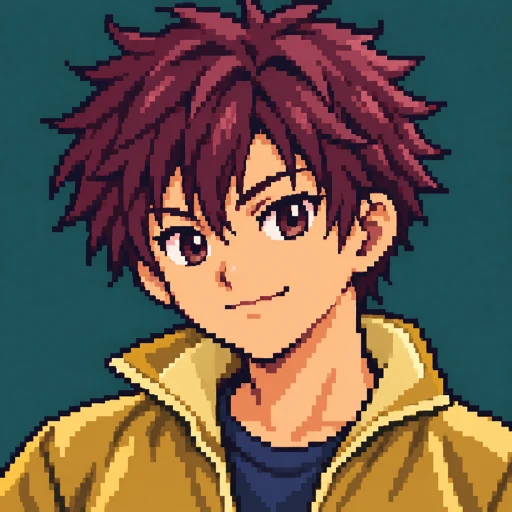
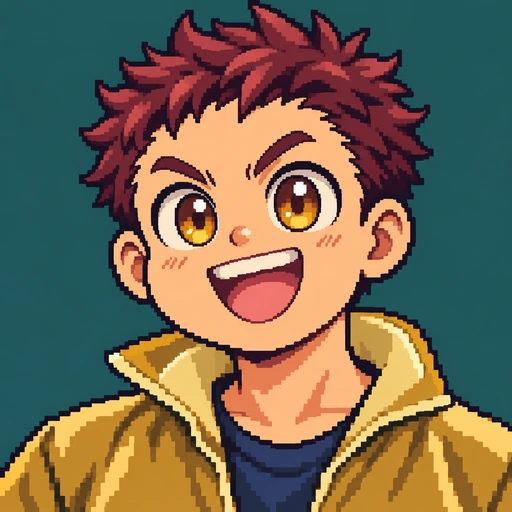
Give each legend distinct eyes, face shape, hair and expression

diff --git a/src/game/LegendPeopleArt.ts b/src/game/LegendPeopleArt.ts
@@ -1,0 +1,60 @@
+import {personDrawing,type Facing} from './PeopleArt';
+import {pixelPen,type PixelShape} from './pixelDrawing';
+export type LegendPerson='rei'|'gaku'|'towa'|'koya';
+const palettes={
+ rei:{shirt:'#42679f',light:'#9bbfe9',shade:'#29456f',hair:'#53243e',highlight:'#96536b'},
+ gaku:{shirt:'#c49b3d',light:'#f3d98a',shade:'#8b6529',hair:'#6e3029',highlight:'#b25e4e'},
+ towa:{shirt:'#34313f',light:'#a68487',shade:'#1d1d2b',hair:'#24202f',highlight:'#575066'},
+ koya:{shirt:'#75828e',light:'#dce4e9',shade:'#424e5b',hair:'#252c34',highlight:'#687380'},
+};
+/** レジェンドは共通の服の原画に、各人専用の頭部・輪郭・目元を組み合わせる。 */
+export function legendPersonDrawing(id:LegendPerson,direction:Facing,frame=0):PixelShape[]{
+ const facing=direction==='left'?'right':direction,c=palettes[id],bob=frame===1||frame===3?1:0;
+ const colors:Record<string,string>={'#b14b67':c.shirt,'#ec9aa2':c.light,'#7f3757':c.shade};
+ const body=personDrawing('rival',facing,frame).filter(shape=>(shape.kind==='rect'?shape.y:Math.min(...shape.points.map(([,y])=>y)))>=35).map(shape=>({...shape,color:colors[shape.color]??shape.color}));
+ const pen=pixelPen(),ink='#222737',skin='#f3c5a0',shadow='#c89078',light='#ffe2ba';
+ const p=(points:number[][],color:string)=>pen.polygon(points.map(([x,y])=>[x,y+bob] as const),color);
+ const r=(x:number,y:number,w:number,h:number,color:string)=>pen.rect(x,y+bob,w,h,color);
+ r(26,33,9,7,shadow);r(28,34,5,4,skin);
+ if(facing==='up'){
+  const bottom=id==='towa'?48:36;
+  p([[19,7],[25,3],[36,3],[43,8],[46,17],[44,bottom-4],[38,bottom],[21,bottom],[15,bottom-5],[14,16]],ink);
+  p([[20,8],[27,5],[35,5],[41,9],[43,17],[41,bottom-4],[36,bottom-2],[23,bottom-2],[18,bottom-6],[17,17]],c.hair);
+  r(21,10,16,2,c.highlight);if(id==='koya')r(18,8,23,7,c.hair);if(id==='gaku')for(let i=0;i<4;i++)p([[17+i*7,11],[19+i*7,3],[24+i*7,10]],c.hair);
+ }else if(facing==='right'){
+  p([[23,11],[36,10],[43,16],[44,23],[49,26],[48,29],[42,30],[41,35],[35,39],[24,35],[20,25]],ink);
+  p([[25,13],[35,12],[41,17],[42,24],[47,26],[46,28],[40,29],[39,34],[34,36],[26,33],[23,25]],skin);r(29,15,9,2,light);
+  p(id==='koya'?[[20,10],[23,6],[37,6],[43,11],[43,17],[39,16],[38,13],[25,13],[25,26],[21,27]]:id==='gaku'?[[18,12],[20,4],[27,8],[30,2],[34,8],[39,5],[44,12],[43,17],[35,14],[29,15],[25,22],[21,24]]:id==='towa'?[[19,9],[28,3],[38,5],[45,12],[43,21],[39,16],[35,15],[30,23],[28,43],[21,47],[17,34]]:[[19,10],[27,4],[37,5],[44,12],[41,19],[36,15],[32,20],[27,27],[22,30],[17,24]],c.hair);
+  r(22,10,12,2,c.highlight);
+  const eyeHeight=id==='gaku'?6:2;r(36,22,5,eyeHeight,'#fff2dd');r(38,22,2,eyeHeight,id==='gaku'?'#8c511e':id==='towa'?'#713044':id==='rei'?'#45617a':'#3d614a');
+  if(id==='towa')p([[35,21],[42,18],[42,20],[35,23]],ink);else r(35,19,7,id==='gaku'?2:1,ink);
+  r(39,32,id==='gaku'?6:4,id==='gaku'?3:1,'#825057');if(id==='gaku')r(40,32,4,1,'#fff5dc');
+  if(id==='koya'){r(34,21,9,1,ink);r(34,21,1,8,ink);r(42,21,1,8,ink);r(34,28,9,1,ink);r(25,23,9,1,ink);}
+ }else{
+  const outline=id==='gaku'?[[19,9],[30,7],[41,10],[46,20],[45,31],[39,38],[23,38],[15,31],[13,21]]:id==='koya'?[[18,10],[40,10],[46,18],[45,33],[39,39],[22,39],[15,33],[14,20]]:id==='towa'?[[20,9],[31,6],[41,11],[45,21],[41,30],[31,40],[20,32],[16,21]]:[[21,9],[31,7],[40,12],[43,21],[40,31],[32,39],[23,33],[18,23]];
+  p(outline,ink);p(outline.map(([x,y])=>[30+(x-30)*.86,22+(y-22)*.9]),shadow);p(outline.map(([x,y])=>[30+(x-30)*.76,21+(y-22)*.8]),skin);r(23,15,13,2,light);
+  if(id==='towa'){
+   p([[16,21],[17,10],[24,4],[31,3],[40,7],[46,16],[45,38],[40,47],[37,45],[40,28],[38,17],[33,12],[30,15],[27,12],[22,18],[21,30],[24,43],[18,47],[14,34]],c.hair);
+   r(20,13,2,14,c.highlight);r(40,17,2,18,c.highlight);
+  }else if(id==='rei'){
+   p([[16,24],[15,14],[20,7],[29,3],[39,5],[45,13],[43,21],[38,15],[34,11],[31,17],[26,23],[22,26],[21,18],[18,29]],c.hair);
+   p([[18,16],[23,8],[31,6],[36,8],[28,12],[24,20]],c.highlight);
+  }else if(id==='gaku'){
+   p([[15,20],[14,12],[20,13],[18,5],[25,9],[28,2],[32,9],[38,4],[40,11],[46,10],[45,21],[41,17],[35,15],[30,17],[24,14],[19,18]],c.hair);r(23,9,12,2,c.highlight);
+  }else{
+   p([[15,22],[15,12],[19,7],[40,7],[45,12],[45,23],[41,22],[40,15],[20,15],[19,23]],c.hair);r(20,9,19,3,c.highlight);
+  }
+  for(const x of [21,34]){
+   if(id==='gaku'){r(x-1,23,7,7,'#fff4dc');r(x+1,23,4,6,'#a36524');r(x+2,24,2,5,ink);r(x+1,23,1,2,'#fffdf0');r(x-1,20,7,2,ink);}
+   else if(id==='towa'){p([[x-1,25],[x+6,22],[x+5,25],[x+1,27]],'#f6ead5');r(x+2,24,2,2,'#79283f');p([[x-1,21],[x+6,19],[x+6,20],[x-1,23]],ink);}
+   else{r(x,24,5,2,'#fff2df');r(x+2,24,2,2,id==='rei'?'#48687f':'#405f49');r(x,21,6,1,ink);}
+  }
+  if(id==='gaku'){r(25,32,12,4,'#7d3b47');r(26,32,10,1,'#fff3da');r(28,35,5,1,'#e5998b');}
+  else{r(id==='koya'?25:28,34,id==='koya'?12:6,1,'#8b535c');r(29,29,id==='koya'?4:2,2,'#c48d76');}
+  if(id==='koya'){
+   for(const x of [19,33]){r(x,22,10,1,ink);r(x,22,1,8,ink);r(x+9,22,1,8,ink);r(x,29,10,1,ink);}r(29,25,4,1,ink);
+  }
+ }
+ const drawing=[...body,...pen.shapes];
+ return direction==='left'?drawing.map(shape=>shape.kind==='rect'?{...shape,x:60-shape.x-shape.w}:{...shape,points:shape.points.map(([x,y])=>[60-x,y] as const)}):drawing;
+}

diff --git a/src/game/ShopScene.ts b/src/game/ShopScene.ts
@@ -1,7 +1,7 @@
+import {legendPersonDrawing} from './LegendPeopleArt';
 import {timeBoardPlacement,timeBoardObstacle} from '../data/timeBoard';
 import {formatRecordTime,type TimeHistory} from './timeRecords';
 import {shopTrackLayout} from './shopTrackLayout';
-import {seniorDrawing,koyaDrawing} from './PeopleArt';
 import {drawShopTrack} from './ShopTrackArt';
 import { officialVenue, officialFixturesFor, officialVenueFor, officialVenuePeople, officialPeopleFor } from '../data/officialVenue';
 import { drawOfficialVenue } from './OfficialVenueArt';
@@ -98,7 +98,7 @@ export class ShopScene extends Phaser.Scene {
         if(npc.id==='go'||npc.id==='riku'||npc.id==='jin'||npc.id==='koya'){
           const key=`venue-${npc.id}-down`;
           if(!this.textures.exists(key)){
-            createPersonTexture(this,key,npc.id==='koya'?koyaDrawing('down'):npc.id==='jin'?seniorDrawing('down'):npc.id==='go'?challengerDrawing('down'):offroaderDrawing('down'));
+            createPersonTexture(this,key,npc.id==='koya'?legendPersonDrawing('koya','down'):npc.id==='jin'?legendPersonDrawing('towa','down'):npc.id==='go'?challengerDrawing('down'):offroaderDrawing('down'));
           }
           (person.list[1] as Phaser.GameObjects.Image).setTexture(key);
         }
@@ -126,10 +126,10 @@ export class ShopScene extends Phaser.Scene {
       }
       (rivalPerson.list[1] as Phaser.GameObjects.Image).setTexture(key);
     }
-    if(shopId==='akatsuki'){const key='akatsuki-towa';if(!this.textures.exists(key))createPersonTexture(this,key,seniorDrawing('down'));(rivalPerson.list[1] as Phaser.GameObjects.Image).setTexture(key);}
+    if(shopId==='akatsuki'){const key='akatsuki-towa';if(!this.textures.exists(key))createPersonTexture(this,key,legendPersonDrawing('towa','down'));(rivalPerson.list[1] as Phaser.GameObjects.Image).setTexture(key);}
     for(const visitor of cast.visitors){
       const npc=this.person(visitor.x,visitor.y,visitor.kind);
-      if(shopId==='akatsuki'){if(visitor.name==='風見 怜'||visitor.name==='火野 岳')(npc.list[1] as Phaser.GameObjects.Image).setTexture(this.arrivalTexture(visitor.name==='風見 怜'?'rei':'gaku','down',0));if(visitor.name==='山城 昊也'){const key='akatsuki-koya';if(!this.textures.exists(key))createPersonTexture(this,key,koyaDrawing('down'));(npc.list[1] as Phaser.GameObjects.Image).setTexture(key);}this.add.text(visitor.x,visitor.y+17,visitor.name,{fontFamily:'sans-serif',fontSize:'8px',color:'#234844',resolution:2}).setOrigin(.5,0).setDepth(visitor.y+1);}
+      if(shopId==='akatsuki'){if(visitor.name==='風見 怜'||visitor.name==='火野 岳')(npc.list[1] as Phaser.GameObjects.Image).setTexture(this.arrivalTexture(visitor.name==='風見 怜'?'rei':'gaku','down',0));if(visitor.name==='山城 昊也'){const key='akatsuki-koya';if(!this.textures.exists(key))createPersonTexture(this,key,legendPersonDrawing('koya','down'));(npc.list[1] as Phaser.GameObjects.Image).setTexture(key);}this.add.text(visitor.x,visitor.y+17,visitor.name,{fontFamily:'sans-serif',fontSize:'8px',color:'#234844',resolution:2}).setOrigin(.5,0).setDepth(visitor.y+1);}
       this.solids.push(new Phaser.Geom.Rectangle(visitor.x-12,visitor.y-9,24,21));
     }
     this.solids.push(new Phaser.Geom.Rectangle(cast.rival.x-12,cast.rival.y-9,24,21));
@@ -308,11 +308,7 @@ export class ShopScene extends Phaser.Scene {
   private arrivalTexture(kind:string,facing:Facing,frame:number){
     const key=`arrival-${kind}-${facing}-${frame}`;
     if(!this.textures.exists(key)){
-      let drawing=kind==='doctor'?doctorDrawing(facing,frame):kind==='villain'?challengerDrawing(facing,frame):personDrawing('rival',facing,frame);
-      if(kind!=='villain'&&kind!=='doctor'){
-        const colors:Record<string,string>=kind==='rei'?{'#b14b67':'#42679f','#ec9aa2':'#9bbfe9','#7f3757':'#29456f'}:{'#b14b67':'#c49b3d','#ec9aa2':'#f3d98a','#7f3757':'#8b6529'};
-        drawing=drawing.map(shape=>({...shape,color:colors[shape.color]??shape.color}));
-      }
+      const drawing=kind==='doctor'?doctorDrawing(facing,frame):kind==='villain'?challengerDrawing(facing,frame):legendPersonDrawing(kind==='gaku'?'gaku':'rei',facing,frame);
       createPersonTexture(this,key,drawing);
     }
     return key;

diff --git a/src/data/dialoguePeople.ts b/src/data/dialoguePeople.ts
@@ -12,14 +12,14 @@ export const dialoguePeople:Record<DialoguePersonId,{name:string;role:string;exp
   aozoraOwner:{name:'青井 晴彦',role:'あおぞら模型店 店主',expression:'気さくな笑顔',ageGroup:'adult',faceBase:'owner'},
   hinataOwner:{name:'日向 誠二',role:'ひなた模型店 店主',expression:'頼もしい笑顔',ageGroup:'adult',faceBase:'owner'},
   akatsukiOwner:{name:'暁堂 司',role:'あかつき模型店 店主',expression:'頼もしい笑顔',ageGroup:'adult',faceBase:'owner'},
-  senior:{name:'橘 斗和',role:'黒岩の先輩・決勝の強敵',expression:'肩までの黒髪とクールな目元',ageGroup:'elementary',faceBase:'child-common'},
+  senior:{name:'橘 斗和',role:'黒岩の先輩・決勝の強敵',expression:'肩までの黒髪、鋭いつり目と三角形の輪郭',ageGroup:'elementary',faceBase:'legend-towa'},
   villain:{name:'黒岩 豪',role:'あおぞら模型店の挑戦者・小学生',expression:'太い眉と不敵な笑み',ageGroup:'elementary',faceBase:'rival'},
   rival:{name:story.rival,role:'ライバル・小学生',expression:'自信のある笑顔',ageGroup:'elementary',faceBase:'rival'},
   guide:{name:shopVisitors.find(person=>person.kind==='guide')!.name,role:'走行会が好きな小学生',expression:'励ます笑顔',ageGroup:'elementary',faceBase:'child-common'},
   mechanic:{name:shopVisitors.find(person=>person.kind==='mechanic')!.name,role:'マシンに詳しい小学生',expression:'元気な笑顔',ageGroup:'elementary',faceBase:'child-common'},
-  legendKoya:{name:'山城 昊也',role:'全国大会のレジェンドレーサー',expression:'黒い短髪と銀灰色の服、落ち着いた笑顔',ageGroup:'elementary',faceBase:'child-common'},
-  legendRei:{name:'風見 怜',role:'全国大会のレジェンドレーサー',expression:'落ち着いた笑顔',ageGroup:'elementary',faceBase:'child-common'},
-  legendGaku:{name:'火野 岳',role:'全国大会のレジェンドレーサー・男の子',expression:'短い髪と金色の服、自信たっぷりの笑顔',ageGroup:'elementary',faceBase:'child-common'},
+  legendKoya:{name:'山城 昊也',role:'全国大会のレジェンドレーサー',expression:'刈り上げた黒髪、丸眼鏡と四角い輪郭、銀灰色の服',ageGroup:'elementary',faceBase:'legend-koya'},
+  legendRei:{name:'風見 怜',role:'全国大会のレジェンドレーサー',expression:'横流しの赤紫髪、切れ長の青灰色の目と面長の輪郭',ageGroup:'elementary',faceBase:'legend-rei'},
+  legendGaku:{name:'火野 岳',role:'全国大会のレジェンドレーサー・男の子',expression:'短い茶髪、大きい丸い目と太眉、丸顔の明るい笑顔と金色の服',ageGroup:'elementary',faceBase:'legend-gaku'},
 };
 const normalize=(name:string)=>name.replace(/[\s　]/g,'');
 export function dialoguePerson(speaker:string):DialoguePersonId|null{

diff --git a/src/RaceRanking.tsx b/src/RaceRanking.tsx
@@ -1,13 +1,14 @@
+import {legendPersonDrawing,type LegendPerson} from './game/LegendPeopleArt';
 import { challenger } from './data/challenger';
 import { rankRacers, type RaceState } from './game/race';
-import { koyaDrawing, seniorDrawing, challengerDrawing, offroaderDrawing, personDrawing, type PersonKind } from './game/PeopleArt';
+import { challengerDrawing, offroaderDrawing, personDrawing, type PersonKind } from './game/PeopleArt';
 
 function RacerPortrait({id,color}:{id:string;color:number}){
   const kind:PersonKind=id==='player'?'player':id==='nagi'||id===challenger.id?'rival':id==='momo'?'guide':'mechanic';
   const jacket=`#${color.toString(16).padStart(6,'0')}`;
   return <svg className="ranking-portrait" viewBox="0 0 60 82" aria-hidden="true">
     <ellipse cx="30" cy="79" rx="18" ry="2" fill="#050b17" opacity=".35"/>
-    {(id==='legend-koya'?koyaDrawing('right'):id==='legend-towa'||id==='jin'?seniorDrawing('right'):id===challenger.id?challengerDrawing('right'):id==='riku'?offroaderDrawing('right'):personDrawing(id.startsWith('legend-')?'rival':kind,'right',0).map(s=>{const colors:Record<string,string>=id==='legend-rei'?{'#b14b67':'#42679f','#ec9aa2':'#9bbfe9','#7f3757':'#29456f'}:id==='legend-gaku'?{'#b14b67':'#c49b3d','#ec9aa2':'#f3d98a','#7f3757':'#8b6529'}:{};return {...s,color:colors[s.color]??s.color};})).map((shape,i)=>{
+    {(id.startsWith('legend-')?legendPersonDrawing(id.slice(7) as LegendPerson,'right'):id==='jin'?legendPersonDrawing('towa','right'):id===challenger.id?challengerDrawing('right'):id==='riku'?offroaderDrawing('right'):personDrawing(kind,'right',0)).map((shape,i)=>{
       const fill=kind==='mechanic'&&shape.color==='#317d91'?jacket:shape.color;
       return shape.kind==='rect'
         ?<rect key={i} x={shape.x} y={shape.y} width={shape.w} height={shape.h} fill={fill} opacity={shape.alpha}/>

diff --git a/src/game/legendFaces.test.ts b/src/game/legendFaces.test.ts
@@ -1,0 +1,16 @@
+import {test} from 'node:test';
+import assert from 'node:assert/strict';
+import {legendPersonDrawing,type LegendPerson} from './LegendPeopleArt';
+import {dialoguePeople} from '../data/dialoguePeople';
+const ids:LegendPerson[]=['rei','gaku','towa','koya'];
+test('4人の頭部は配色だけでなく目・輪郭・髪の形状が異なる',()=>{
+ const heads=ids.map(id=>legendPersonDrawing(id,'down').filter(shape=>(shape.kind==='rect'?shape.y:Math.min(...shape.points.map(([,y])=>y)))<34).map(shape=>shape.kind==='rect'?{kind:shape.kind,x:shape.x,y:shape.y,w:shape.w,h:shape.h}:{kind:shape.kind,points:shape.points}));
+ assert.equal(new Set(heads.map(head=>JSON.stringify(head))).size,4);
+ assert.match(dialoguePeople.legendRei.expression,/切れ長/);assert.match(dialoguePeople.legendGaku.expression,/丸い目/);assert.match(dialoguePeople.senior.expression,/つり目/);assert.match(dialoguePeople.legendKoya.expression,/丸眼鏡/);
+});
+test('専用の歩行原画は全方向・全歩行フレームで欠けない',()=>{
+ for(const id of ids)for(const direction of ['down','up','left','right'] as const)for(let frame=0;frame<4;frame++){
+  const drawing=legendPersonDrawing(id,direction,frame);assert.ok(drawing.length>50);
+  for(const shape of drawing){const points=shape.kind==='rect'?[[shape.x,shape.y],[shape.x+shape.w,shape.y+shape.h]]:shape.points;for(const [x,y] of points)assert.ok(Number.isFinite(x)&&Number.isFinite(y)&&x>=0&&x<=60&&y>=0&&y<=80,`${id} ${direction}: ${x},${y}`);}
+ }
+});

diff --git a/src/DialogueView.tsx b/src/DialogueView.tsx
@@ -7,13 +7,14 @@ import { useGame } from './game/store';
 import { dialogueChoices, dialoguePeople, dialoguePerson, type DialoguePersonId } from './data/dialoguePeople';
 import owner from './assets/portraits/owner-pop.webp';
 import rival from './assets/portraits/rival-pop.webp';
+import rei from './assets/portraits/rei-pop.webp';
 import guide from './assets/portraits/guide-pop.webp';
 import gaku from './assets/portraits/gaku-pop.webp';
 import koya from './assets/portraits/koya-pop.webp';
 import mechanic from './assets/portraits/mechanic-pop.webp';
 import './dialogue.css';
 
-const portraits:Record<DialoguePersonId,string>={akatsukiOwner:owner,senior:rival,yuunagiOwner:owner,atelierOwner:owner,wakabaOwner:owner,venueStaff:owner,offroader:mechanic,owner,aozoraOwner:owner,hinataOwner:owner,villain:rival,rival,guide,mechanic,legendRei:rival,legendGaku:gaku,legendKoya:koya,doctor:owner};
+const portraits:Record<DialoguePersonId,string>={akatsukiOwner:owner,senior:rival,yuunagiOwner:owner,atelierOwner:owner,wakabaOwner:owner,venueStaff:owner,offroader:mechanic,owner,aozoraOwner:owner,hinataOwner:owner,villain:rival,rival,guide,mechanic,legendRei:rei,legendGaku:gaku,legendKoya:koya,doctor:owner};
 export function DialogueView(){
   const {speaker,dialogue,shopAfter,advance,close,dialogueStage,startLegendChallenge,startVillainChallenge,startOfficialRace,openSetting}=useGame();
   const [selected,setSelected]=useState(0);

diff --git a/src/data/legendPortraits.ts b/src/data/legendPortraits.ts
@@ -1,5 +1,5 @@
-import rei from '../assets/portraits/rival-pop.webp';
+import rei from '../assets/portraits/rei-pop.webp';
 import gaku from '../assets/portraits/gaku-pop.webp';
-import towa from '../assets/portraits/kurose-pop.webp';
+import towa from '../assets/portraits/towa-pop.webp';
 import koya from '../assets/portraits/koya-pop.webp';
 export const legendPortraits:Record<string,string>={'legend-rei':rei,'legend-gaku':gaku,'legend-towa':towa,'legend-koya':koya};

diff --git a/src/SeniorPortrait.tsx b/src/SeniorPortrait.tsx
@@ -1,3 +1,3 @@
-import portrait from './assets/portraits/kurose-pop.webp';
+import portrait from './assets/portraits/towa-pop.webp';
 
 export function SeniorPortrait(){return <img src={portrait} alt="" decoding="async"/>;}

diff --git a/AGENTS.md b/AGENTS.md
@@ -53,10 +53,10 @@
 
 - forge・zenithの最強たちは高速旋回型の新作装備を使う。慣らし60秒・新品電池の優勝構成でforge約87.5秒、怜約87.9秒、最終約92.7秒対93.1秒。車線の公平性は維持。ゴール後の表示距離はfinishTrackDistanceで公式距離と分離し、一本道でも30cmで制限せず出口へ走り去る。
 
-- 火野 岳は男の子。会話顔は男子共通原画の金色ジャケット差分gaku-pop.webpを使い、歩行・順位欄の金色の服と一致させる。女の子のguide-pop.webpを割り当てない。
+- 火野 岳は男の子。会話顔は丸顔・大きな丸い目・太眉・短い茶髪の専用画像gaku-pop.webpを使い、歩行・順位欄の金色の服と一致させる。女の子のguide-pop.webpを割り当てない。
 
 - 最新の人物設定：黒岩の先輩は橘 斗和（旧jin IDは過去の緑川大会セーブ互換のため維持）。最終レース・あかつき模型店の試走相手・場内NPCは風見 怜、火野 岳、橘 斗和、山城 昊也の4人。最終レースIDはlegend-rei/gaku/towa/koya。旧最終戦のgo/jin記録はdecodeCupでtowa/koyaへ移行し順位・タイムを保持。
-- 斗和の専用ボディbody-legend-towaは銀色の三分割ノーズ・金色吸気口4個・金属パイプ・赤灯・白ホイール。昊也のbody-legend-muscleは黒銀の幅広カウル・前部駆動カバー・青キャノピー・黄灯・緑ホイール。LegendBodiesで描画。実在のロゴを使わない。昊也の会話顔は男子共通原画の黒髪・銀灰ジャケット差分koya-pop.webp。
+- 斗和の専用ボディbody-legend-towaは銀色の三分割ノーズ・金色吸気口4個・金属パイプ・赤灯・白ホイール。昊也のbody-legend-muscleは黒銀の幅広カウル・前部駆動カバー・青キャノピー・黄灯・緑ホイール。LegendBodiesで描画。実在のロゴを使わない。昊也の会話顔は角張った輪郭・小さい目・丸眼鏡・刈り上げの専用画像koya-pop.webp。
 
 - レジェンド展示の顔画像はdata/legendPortraitsで会話と同じ4人の原画を使う。パーツの画像はsrc/assets/partsの640×440透過WebP。PartProductModel・partProductThumbnail・scripts/render-part-products.cjsで再生成する（docs/part-product-images.md参照）。既存画像を簡易SVGへ戻さない。
 
@@ -67,3 +67,5 @@
 - 店頭の購入／新品交換ボタンは確認モーダルを開き、確定したときだけbuyを呼ぶ。品名・価格・現在と購入後の所持金、消耗品の新品交換時のリセット内容を表示する。キャンセル／Escで購入や交換を行わず店へ戻し、確認中の背面はinertにする。連打で二重購入させない。
 
 - ひなた（sun）の平坦ダートは、路面抵抗でノーマル装備が完全停止しないよう、駆動力・電池が残っている間はDIRT_CRAWL_SPEEDを基準とした超低速前進を許可。舗装・障害物付き立体コース・電池切れには適用しない。セッティング画面・レース画面に装備の警告は表示しない。低速前進だけを適用する。
+
+- ユーザー指定でレジェンド4人は色違いの共通顔ではなく、それぞれ独立した顔にする。怜＝面長・切れ長の青灰色の目・横流しの赤紫髪・青い服（rei-pop.webp）。岳＝丸顔・大きい丸目・太眉・短い茶髪・元気な笑顔・金色の服。斗和＝三角形の輪郭・鋭いつり目・黒い長髪・無表情・黒赤の服（towa-pop.webp）。昊也＝四角い輪郭・小さい目・丸眼鏡・刈り上げ・銀灰の服。展示と会話で同じ画像を使い、歩行・順位欄はLegendPeopleArtの専用頭部で特徴を一致させる。一般モブの共通顔方針とは別。

diff --git a/docs/portrait-prompts.md b/docs/portrait-prompts.md
@@ -91,3 +91,14 @@ Final prompt:
 ```text
 Use case: stylized-concept. Asset type: original Japanese browser RPG dialogue portrait, a single square image, intended to be displayed 160px wide. Polished hand-painted anime illustration, grounded facial anatomy and believable clothing, expressive but not exaggerated, clean fine dark-navy linework and subtle cel-painted shading, warm soft lighting. Head-and-upper-chest close-up, eyes looking slightly toward viewer, face fills upper two-thirds, shoulders extend to bottom edge, entire head fully visible with a little padding. Plain muted dark teal backdrop, no scenery, no text, no logos, no watermark, no frames. Original character only, do not reproduce any existing game character. Match these existing walking-sprite character details exactly: Takumi Saeki, Japanese young adult male around 25 years old. Short neatly side-swept dark blue-black hair, dark brown eyes, lean face and straight brows, clean-shaven. Teal blue short-sleeved work shirt with rolled cuffs under a muted pale sage/gray-green workshop apron, one chest pocket and a slim ochre pencil visible. Calm thoughtful reassuring expression and a small closed-mouth smile. No glasses, no hat, no facial hair, no logos.
 ```
+
+## レジェンド4人の顔の描き分け（2026-11）
+
+ユーザー指定により、共通顔の色違いをやめ、目・輪郭・髪型・表情を独立して制作。原画をimagegenで編集し、512×512 WebPに保存。青緑の背景、太い輪郭と16bit風の絵柄は共通とする。
+
+- 怜（rei-pop.webp）：面長、細い切れ長の青灰色の目、細眉、横流しの赤紫髪、控えめな口元、青いジャケット。
+- 岳（gaku-pop.webp）：丸顔、大きな丸い琥珀の目、太眉、短い茶髪、歯を見せた明るい笑顔、金色のジャケット。
+- 斗和（towa-pop.webp）：三角形の輪郭、鋭いつり目、小さい暗赤色の瞳、黒い長髪、無表情、黒赤のジャケット。
+- 昊也（koya-pop.webp）：四角い輪郭、小さいたれ目、丸眼鏡、黒い刈り上げ、落ち着いた笑顔、銀灰色のジャケット。
+
+一般モブ用のrival-pop.webpは変更しない。展示と会話で同じ専用原画を使用し、歩行・順位欄はLegendPeopleArtで頭部を描き分ける。
